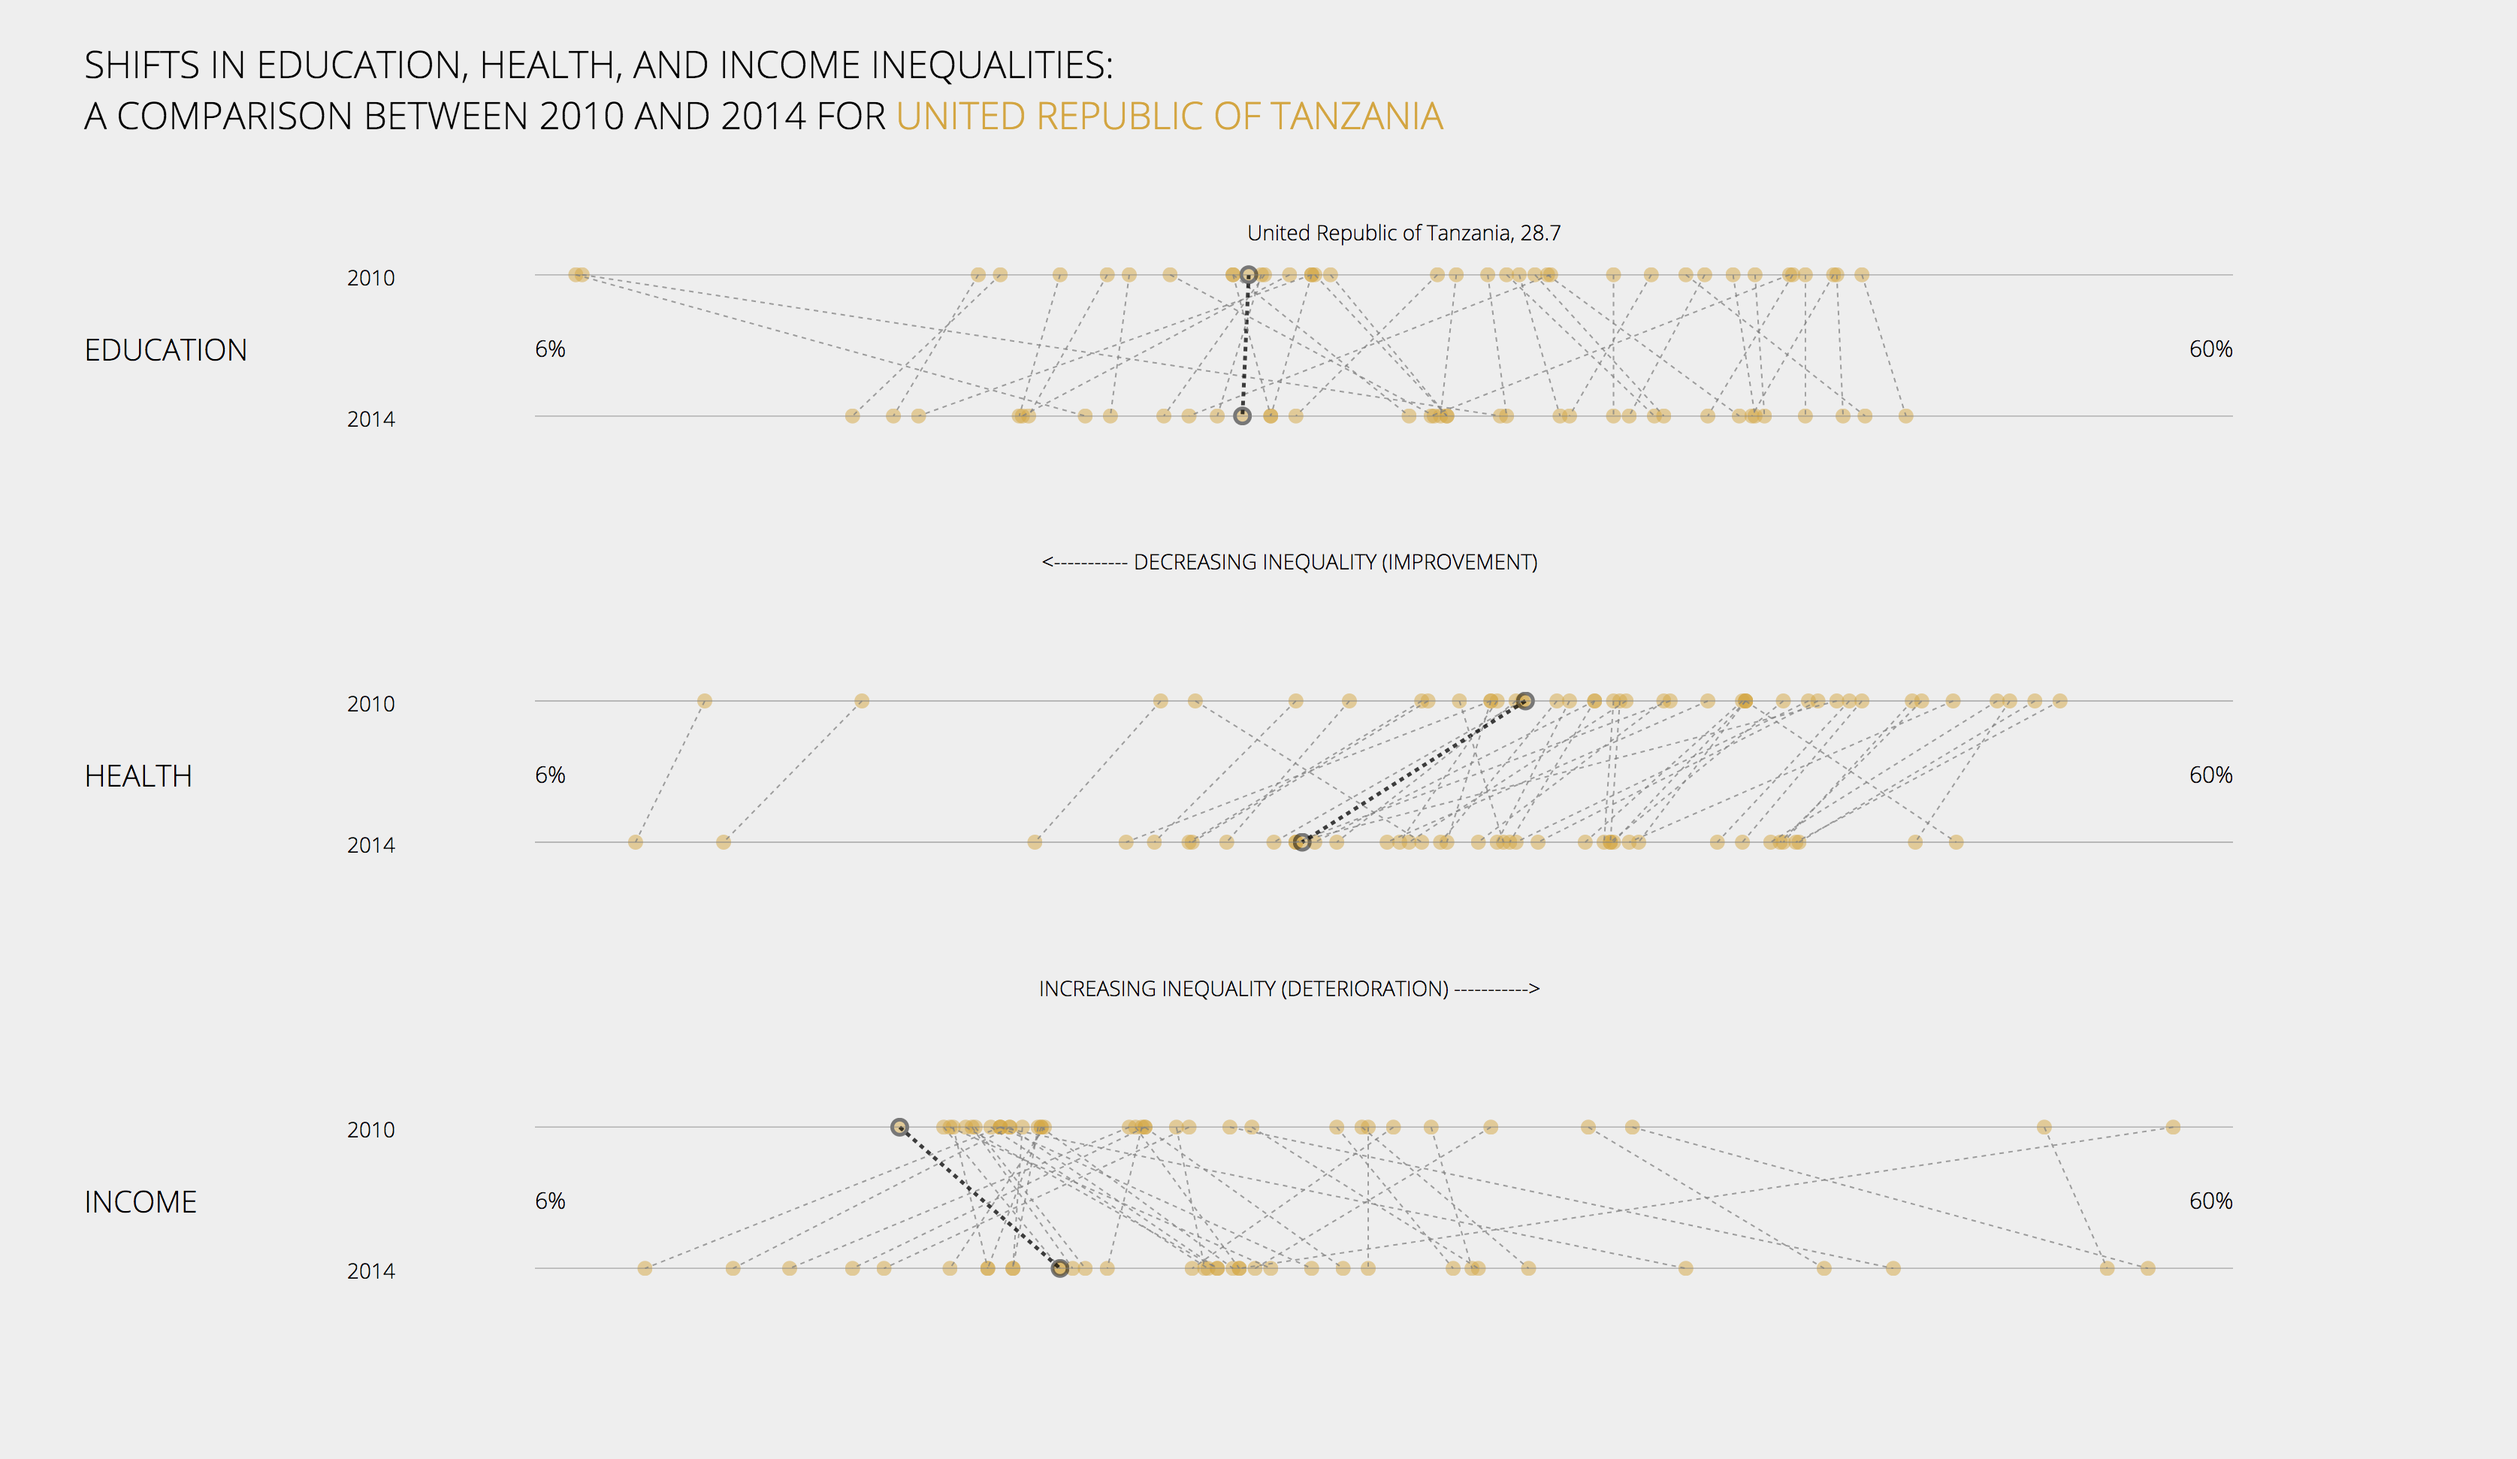
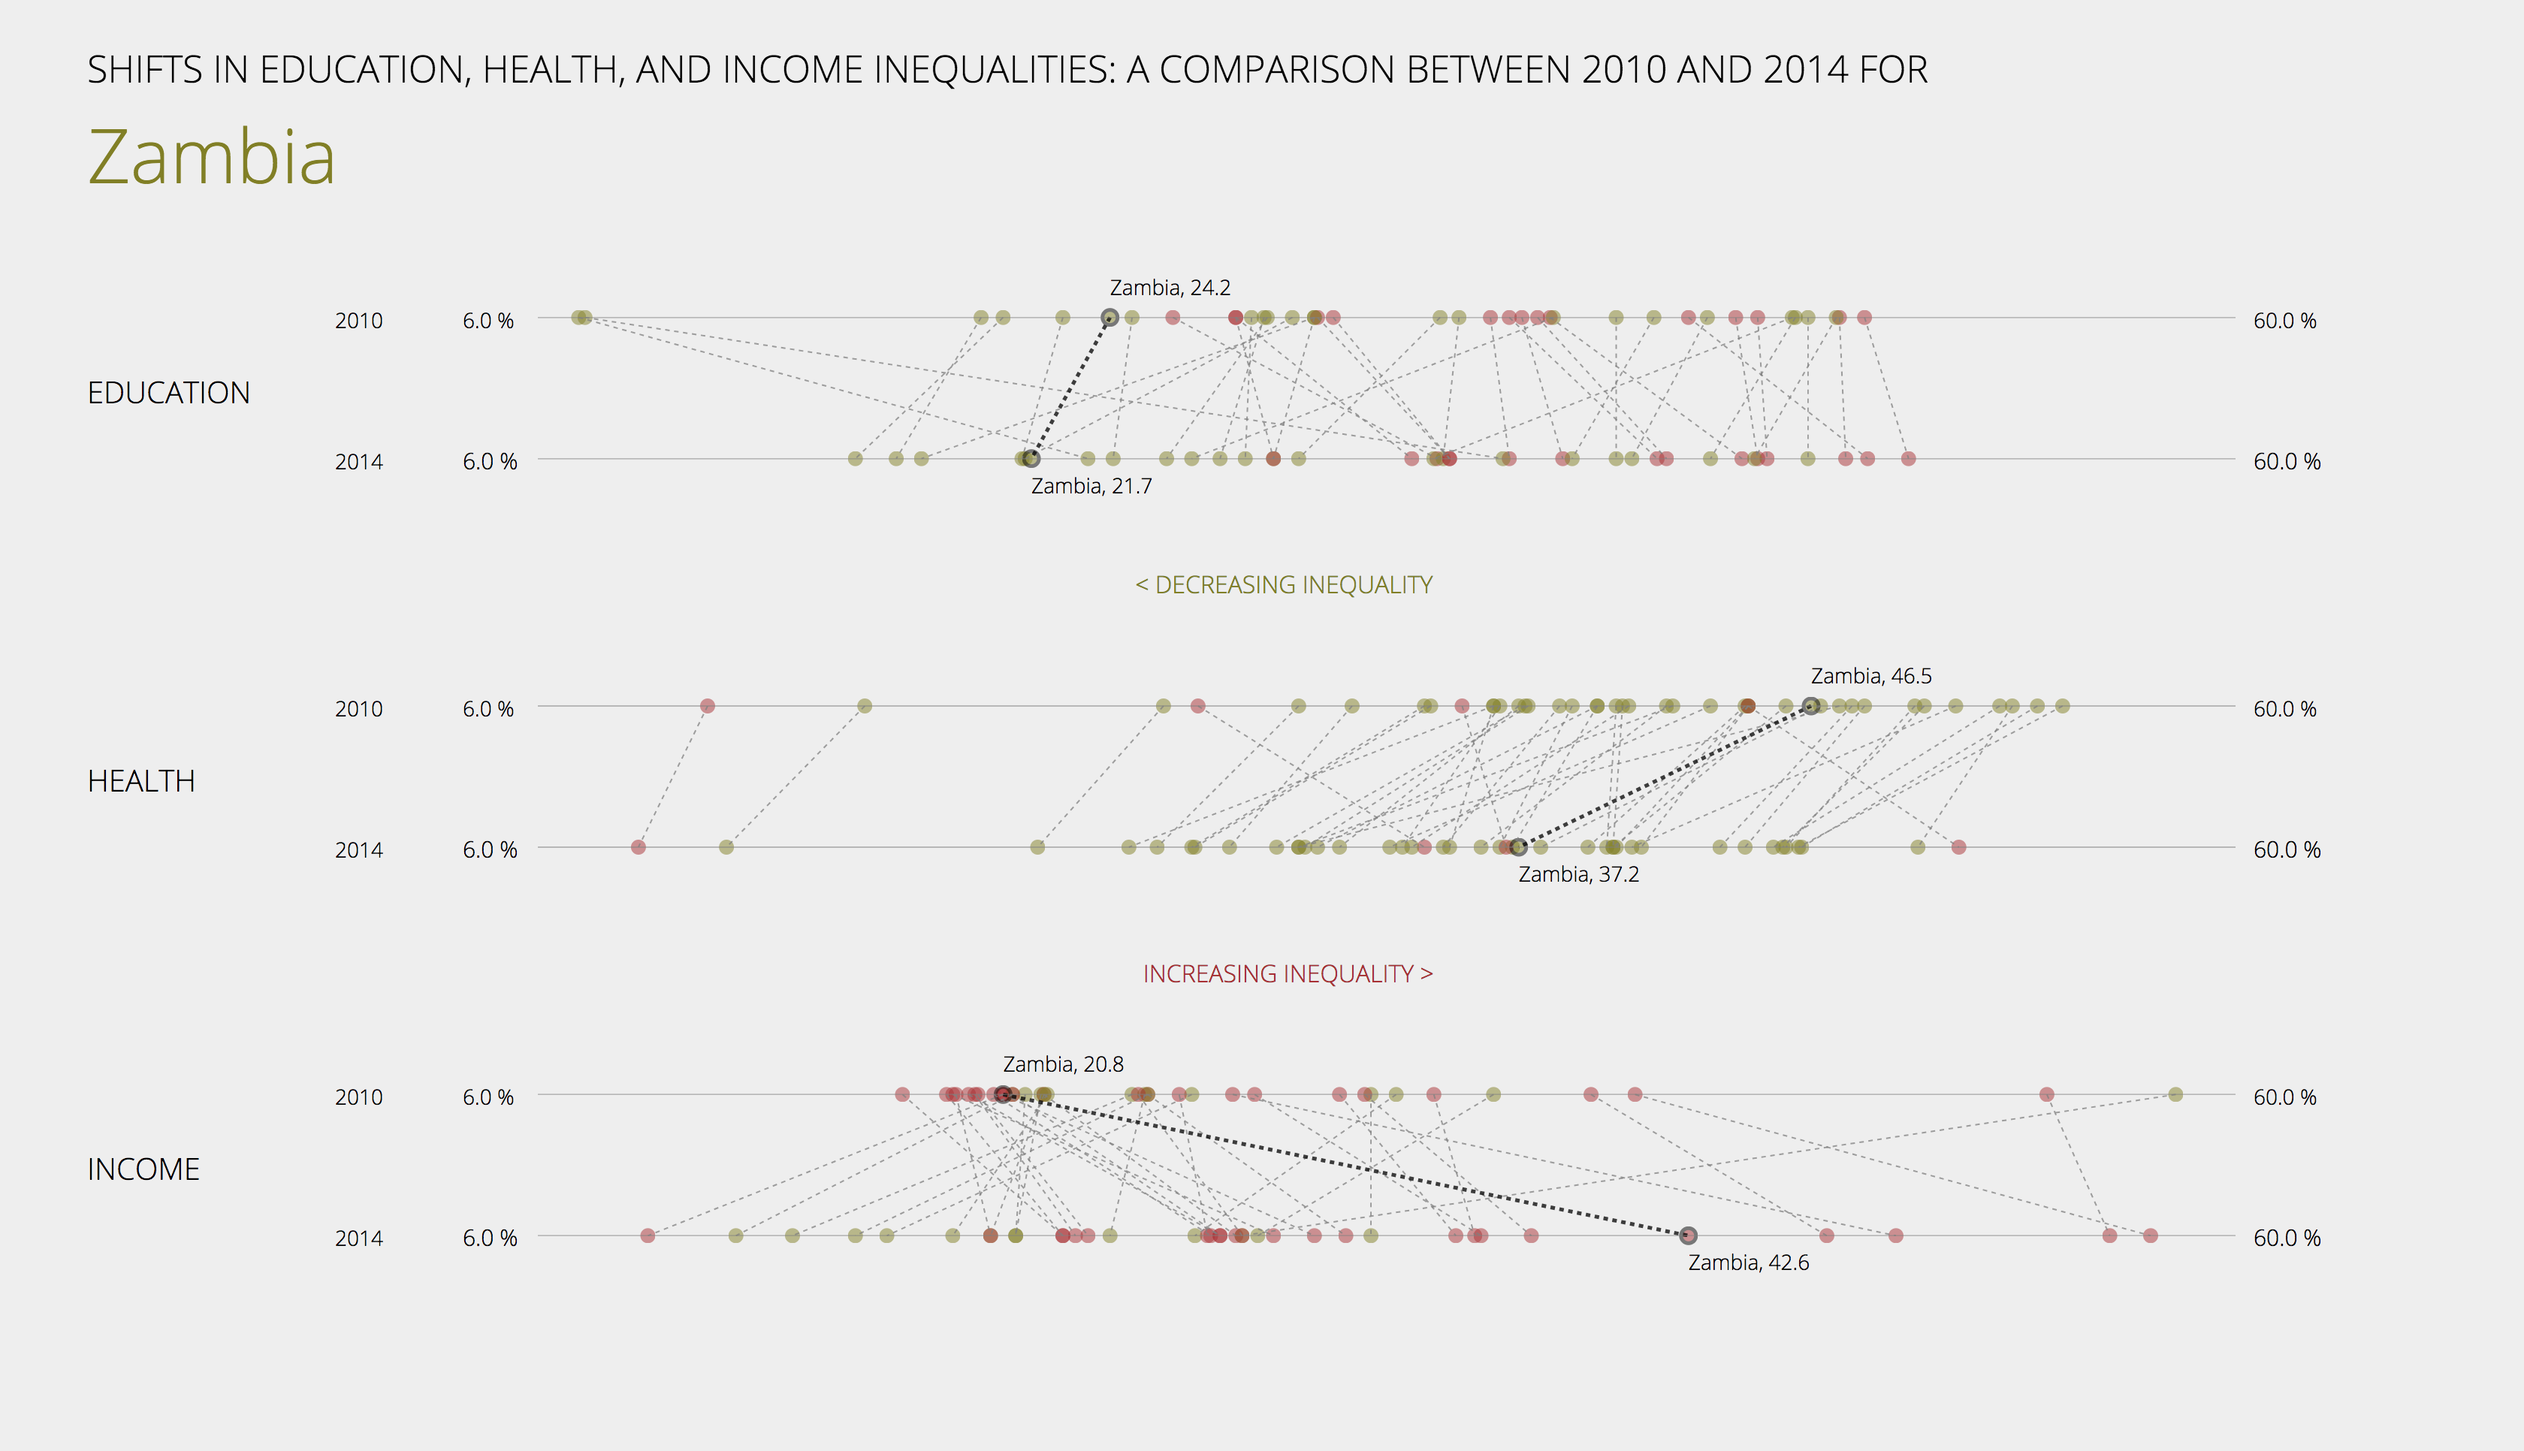
update color code and screenshot

diff --git a/tools/index.html b/tools/index.html
@@ -345,7 +345,7 @@
                             .attr('cy', (window.innerHeight - 200)/6 - 57)
                             .attr('r', 5)
                             .attr('fill', function(d) {
-                                if(d["2010"] < d["2014"]) 
+                                if(parseInt(d["2010"]) < parseInt(d["2014"])) 
                                     return '#B6202D';
                                 else
                                     return 'olive';
@@ -406,7 +406,7 @@
                                 d3.select(this)
                                 tooltip.select('.sentence').html(d.Country + ' went from an education inequality of  ' + d['2010'] + ' in 2010 to   ' + d['2014'] + ' in 2014.');
                                 tooltip.style('display', 'block');
-                                if(d["2010"] < d["2014"]) 
+                                if(parseInt(d["2010"]) < parseInt(d["2014"])) 
                                     tooltip.style('color', '#B6202D')
                                 else
                                     tooltip.style('color', 'olive')
@@ -421,8 +421,11 @@
                             .attr('cy', (window.innerHeight - 200)/6 + 37)
                             .attr('r', 5)
                             .attr('fill', function(d) {
-                                if(d["2010"] < d["2014"]) 
+                                if(parseInt(d["2010"]) < parseInt(d["2014"])) 
                                     return '#B6202D';
+                                if(d.Country == " Ghana" || d.Country == " Gabon") {
+                                    return '#B6202D';
+                                }
                                 else
                                     return 'olive';
                             })
@@ -473,7 +476,7 @@
                                 d3.select(this)
                                 tooltip.select('.sentence').html(d.Country + ' went from an education inequality of  ' + d['2010'] + ' in 2010 to   ' + d['2014'] + ' in 2014.');
                                 tooltip.style('display', 'block');
-                                if(d["2010"] < d["2014"]) 
+                                if(parseInt(d["2010"]) < parseInt(d["2014"])) 
                                     tooltip.style('color', '#B6202D')
                                 else
                                     tooltip.style('color', 'olive')
@@ -505,7 +508,7 @@
                             .attr('cy', (window.innerHeight - 200)/2 - 57)
                             .attr('r', 5)
                             .attr('fill', function(d) {
-                                if(d["2010"] < d["2014"]) 
+                                if(parseInt(d["2010"]) < parseInt(d["2014"])) 
                                     return '#B6202D';
                                 else
                                     return 'olive';
@@ -555,7 +558,7 @@
                             .on('click', function(d) {
                                 tooltip.select('.sentence').html(d.Country + ' went from a health inequality of  ' + d['2010'] + ' in 2010 to   ' + d['2014'] + ' in 2014.');
                                 tooltip.style('display', 'block');
-                                if(d["2010"] < d["2014"]) 
+                                if(parseInt(d["2010"]) < parseInt(d["2014"])) 
                                     tooltip.style('color', '#B6202D')
                                 else
                                     tooltip.style('color', 'olive')
@@ -571,7 +574,7 @@
                             .attr('cy', (window.innerHeight - 200)/2 + 37)
                             .attr('r', 5)
                             .attr('fill', function(d) {
-                                if(d["2010"] < d["2014"]) 
+                                if(parseInt(d["2010"]) < parseInt(d["2014"])) 
                                     return '#B6202D';
                                 else
                                     return 'olive';
@@ -623,7 +626,7 @@
                                     .style('fill', 'white');
                                 tooltip.select('.sentence').html(d.Country + ' went from a health inequality of  ' + d['2010'] + ' in 2010 to   ' + d['2014'] + ' in 2014.');
                                 tooltip.style('display', 'block');
-                                if(d["2010"] < d["2014"]) 
+                                if(parseInt(d["2010"]) < parseInt(d["2014"])) 
                                     tooltip.style('color', '#B6202D')
                                 else
                                     tooltip.style('color', 'olive')
@@ -655,7 +658,7 @@
                             .attr('cy', 5*(window.innerHeight - 200)/6 - 57)
                             .attr('r', 5)
                             .attr('fill', function(d) {
-                                if(d["2010"] < d["2014"]) 
+                                if(parseInt(d["2010"]) < parseInt(d["2014"])) 
                                     return '#B6202D';
                                 else
                                     return 'olive';
@@ -707,7 +710,7 @@
                                     .style('fill', 'white');
                                 tooltip.select('.sentence').html(d.Country + ' went from an income inequality of  ' + d['2010'] + ' in 2010 to   ' + d['2014'] + ' in 2014.');
                                 tooltip.style('display', 'block');
-                                if(d["2010"] < d["2014"]) 
+                                if(parseInt(d["2010"]) < parseInt(d["2014"])) 
                                     tooltip.style('color', '#B6202D')
                                 else
                                     tooltip.style('color', 'olive')
@@ -723,7 +726,7 @@
                             .attr('cy', 5*(window.innerHeight - 200)/6 + 37)
                             .attr('r', 5)
                             .attr('fill', function(d) {
-                                if(d["2010"] < d["2014"]) 
+                                if(parseInt(d["2010"]) < parseInt(d["2014"])) 
                                     return '#B6202D';
                                 else
                                     return 'olive';
@@ -775,7 +778,7 @@
                                     .style('fill', 'white');
                                 tooltip.select('.sentence').html(d.Country + ' went from an income inequality of  ' + d['2010'] + ' in 2010 to   ' + d['2014'] + ' in 2014.');
                                 tooltip.style('display', 'block');
-                                if(d["2010"] < d["2014"]) 
+                                if(parseInt(d["2010"]) < parseInt(d["2014"])) 
                                     tooltip.style('color', '#B6202D')
                                 else
                                     tooltip.style('color', 'olive')
